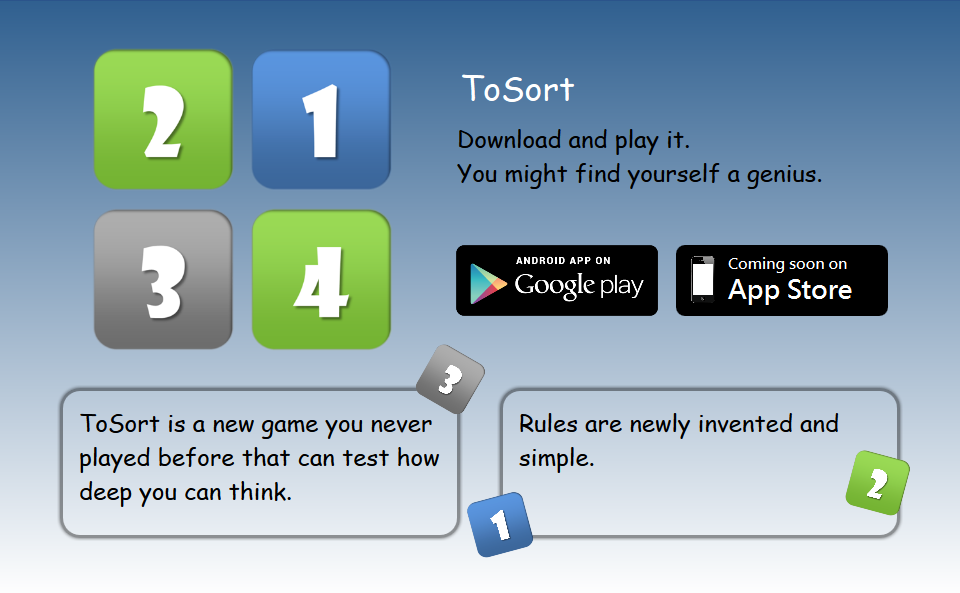
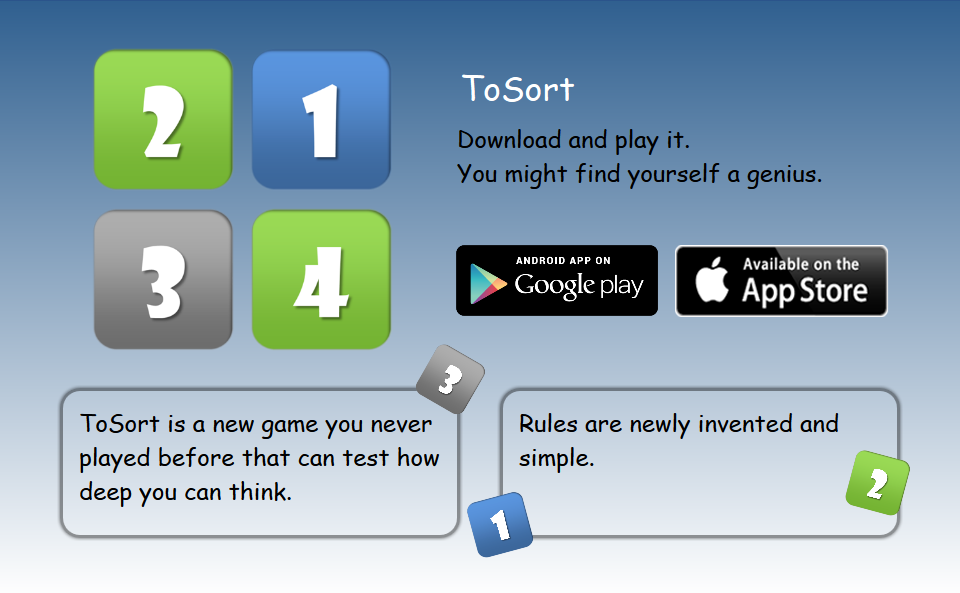
add Android link of ToSort

Changed region(s): [[0.6875, 0.3946, 0.9375, 0.5464]]

diff --git a/en/ToSort.html b/en/ToSort.html
@@ -47,6 +47,7 @@
   <div class="ad"><img src="images/describeToSort.png" width="960" height="593" usemap="ToSortMap">
     <map name="ToSortMap">
         <area shape="rect" coords="450,240,665,320" target="_blank" href="https://play.google.com/store/apps/details?id=ntlchtech.android.tosort">
+        <area shape="rect" coords="675,240,890,320" target="_blank" href="https://itunes.apple.com/en/app/tosort/id730925703?mt=8">
      </map>
   </div>
 

diff --git a/tw/ToSort.html b/tw/ToSort.html
@@ -48,6 +48,7 @@
   <div class="ad"><img src="images/describeToSort.png" width="960" height="593" usemap="ToSortMap">
     <map name="ToSortMap">
         <area shape="rect" coords="450,240,665,320" target="_blank" href="https://play.google.com/store/apps/details?id=ntlchtech.android.tosort">
+        <area shape="rect" coords="675,240,890,320" target="_blank" href="https://itunes.apple.com/en/app/tosort/id730925703?mt=8">
      </map>
   </div>
 
